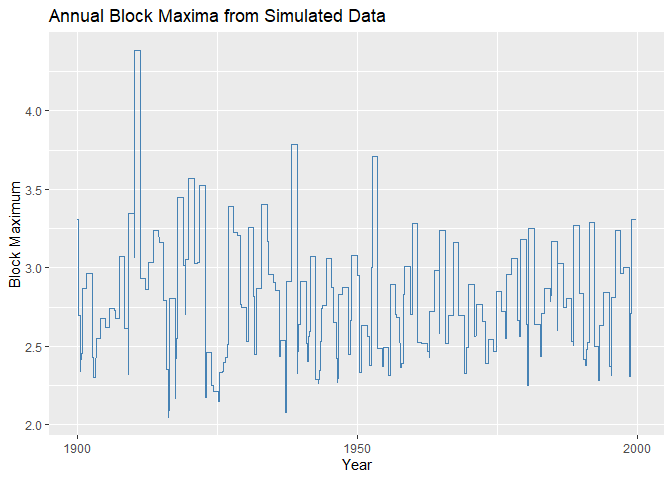
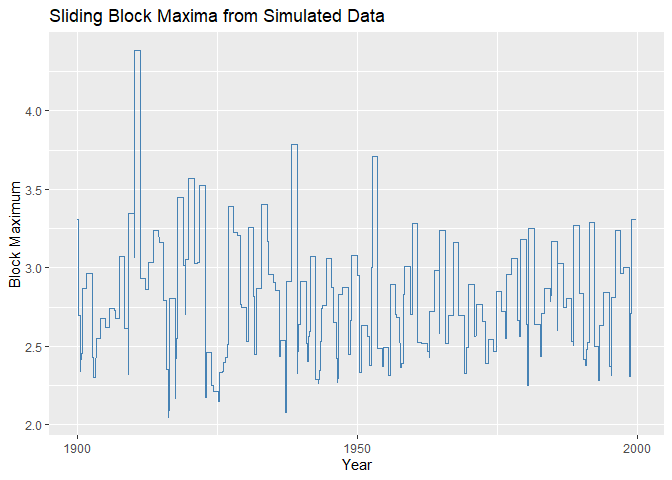
cosmetics and references

Changed region(s): [[0.0625, 0.0, 0.5938, 0.0625]]

diff --git a/README.md b/README.md
@@ -13,8 +13,9 @@ in C++ via Rcpp, enabling efficient computation even for long time
 series.
 
 These methods are based on the first consistent bootstrap approach for
-block maxima as introduced in [Bücher & Staud
-(2024+)](https://arxiv.org/abs/2409.05529).
+block maxima as introduced in [Bücher & Staud (2024+): Bootstrapping
+Estimators based on the Block Maxima
+Method.](https://arxiv.org/abs/2409.05529).
 
 ## Installation
 
@@ -26,9 +27,9 @@ You can install the development version of `maxbootR` from
 devtools::install_github("torbenstaud/maxbootR")
 ```
 
-or from
-[CRAN](https://cran.r-project.org/web/packages/maxbootR/index.html) in
-`R`.
+or from the official
+[CRAN](https://cran.r-project.org/web/packages/maxbootR/index.html)
+repository in `R`.
 
 ## Quick Example
 
@@ -65,7 +66,7 @@ df <- tibble(
 ggplot(df, aes(x = day, y = block_max)) +
   geom_line(color = "steelblue") +
   labs(
-    title = "Annual Block Maxima from Simulated Data",
+    title = "Sliding Block Maxima from Simulated Data",
     x = "Year",
     y = "Block Maximum"
   ) 
@@ -93,7 +94,7 @@ system.time(
                      type ="db", annuity = 100)
 )
 #>        User      System verstrichen 
-#>        0.64        0.02        0.65
+#>        0.61        0.06        0.67
 
 # Bootstrap using sliding blocks (+timing)
 system.time(
@@ -101,7 +102,7 @@ system.time(
                      type = "sb", annuity = 100)
 )
 #>        User      System verstrichen 
-#>        8.13        0.08        8.21
+#>        7.88        0.02        7.89
 
 # Compare variance
 var(bst.sb) / var(bst.db)
@@ -116,7 +117,36 @@ distributions**, reducing statistical uncertainty.
 
 <img src="man/figures/README-blockmax-plot-1.png" width="100%" style="display: block; margin: auto;" />
 
-# Learn More
+## Learn More
 
 For a full tutorial with real-world case studies (finance & climate),
 check out the [vignette](CRAN) included in the package.
+
+## References
+
+The implemented disjoint and sliding block bootstrap methods are
+grounded in the following foundational works:
+
+- Gumbel, E. J. (1958). *Statistics of Extremes*. Columbia University
+  Press.
+- Ferro, C. A. T. & Segers, J. (2003). Inference for clusters of extreme
+  values. *Journal of the Royal Statistical Society: Series B
+  (Statistical Methodology)*, 65(2), 545–556.
+
+The block bootstrap methodology itself is based on:
+
+- Bücher, A. & Staud, T. (2024+). *Bootstrapping estimators based on the
+  block maxima method*.
+  [arXiv:2409.05529](https://arxiv.org/abs/2409.05529).
+
+## Roadmap & Future Development
+
+I plan to further enhance `maxbootR` by:
+
+- Adding functionality for computing **(size-corrected) confidence
+  intervals**
+- Providing **built-in plotting and diagnostic functions**
+- Extending estimator support for **multivariate block maxima**
+
+Your ideas and contributions are welcome — feel free to open an issue or
+pull request on GitHub!
